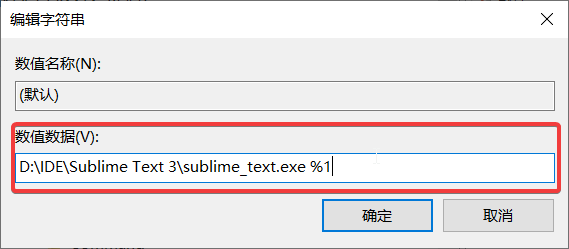
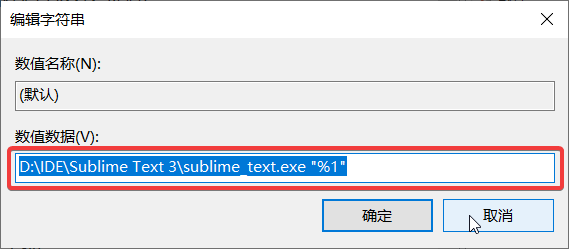
右键菜单

Changed region(s): [[0.0, 0.4779, 1.0, 0.9558], [0.0299, 0.9839, 0.2689, 1.0]]

diff --git a/Windows/Windows_190711.md b/Windows/Windows_190711.md
@@ -15,7 +15,9 @@
 	- ![](Windows_190711_files/3.png)
 7. 在左侧选中 `Edit with Sublime Text3` 右击，新建项 `Command`
 	- 选中 `Command` ，在右侧的默认上右击修改
-	- 填入 `D:\IDE\Sublime Text 3\sublime_text.exe %1`
+	- 填入 `D:\IDE\Sublime Text 3\sublime_text.exe "%1"`
+  ![](Windows_190711_files/4.png)
+  > "%1"——%1 两边的双引号必加，这样才能打开路径带空格的文件或文件夹 
 	- ![](Windows_190711_files/4.png)
 9. 完成！效果如下
 ![](Windows_190711_files/5.png)
@@ -23,19 +25,27 @@
 一键脚本
 ```
 Windows Registry Editor Version 5.00
-[HKEY_CLASSES_ROOT\*\shell\SublimeText3]
-@="用 SublimeText3 打开"
-"Icon"="C:\\Program Files (x86)\\Sublime Text3\\sublime_text.exe,0"
-[HKEY_CLASSES_ROOT\*\shell\SublimeText3\command]
-@="C:\\Program Files (x86)\\Sublime Text3\\sublime_text.exe %1"
-[HKEY_CLASSES_ROOT\Directory\shell\SublimeText3]
-@="用 SublimeText3 打开"
-"Icon"="C:\\Program Files (x86)\\Sublime Text3\\sublime_text.exe,0"
-[HKEY_CLASSES_ROOT\Directory\shell\SublimeText3\command]
-@="C:\\Program Files (x86)\\Sublime Text3\\sublime_text.exe %1"
+[HKEY_CLASSES_ROOT\*\shell\Edit with Sublime Text3]
+@="Edit with Sublime Text3"
+"Icon"="D:\\IDE\\Sublime Text 3\\sublime_text.exe,0"
+[HKEY_CLASSES_ROOT\*\shell\Edit with Sublime Text3\command]
+@="D:\\IDE\\Sublime Text 3\\sublime_text.exe \"%1\""
+
+[HKEY_CLASSES_ROOT\*\shell\Edit with HX]
+@="Edit with HX"
+"Icon"="D:\\IDE\\HBuilderX.1.6.2.20190220.full\\HBuilderX\\HBuilderX.exe,0"
+[HKEY_CLASSES_ROOT\*\shell\Edit with HX\command]
+@="D:\\IDE\\HBuilderX.1.6.2.20190220.full\\HBuilderX\\HBuilderX.exe \"%1\""
+
+[HKEY_CLASSES_ROOT\Directory\shell\Open to Sublime Text3]
+@="Open to Sublime Text3"
+"Icon"="D:\\IDE\\Sublime Text 3\\sublime_text.exe,0"
+[HKEY_CLASSES_ROOT\Directory\shell\Open to Sublime Text3\command]
+@="D:\\IDE\\Sublime Text 3\\sublime_text.exe \"%1\""
 
 注意：双斜杠
-C:\\Program Files (x86)\\Sublime Text3\\sublime_text.exe
+D:\\IDE\\Sublime Text 3\\sublime_text.exe
+文件名后缀：.reg
 ```
 ##### 添加软件到文件夹的右键菜单
 > 按路径 `HKEY_CLASSES_ROOT\directory\shell` 在左侧依次打开，其余步骤和上面相同。
